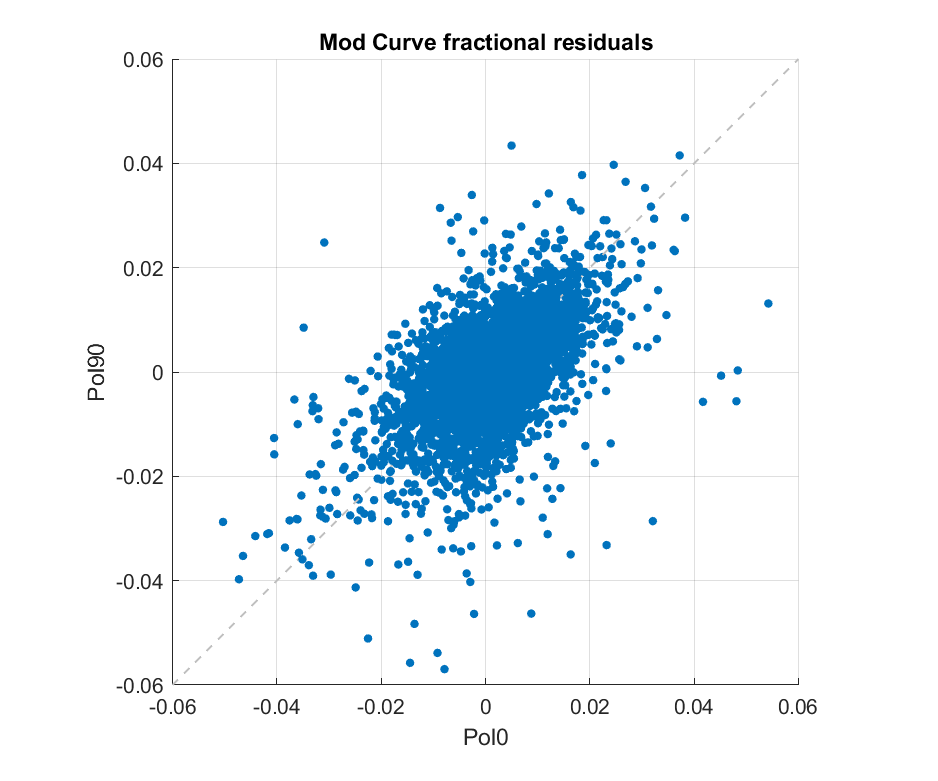
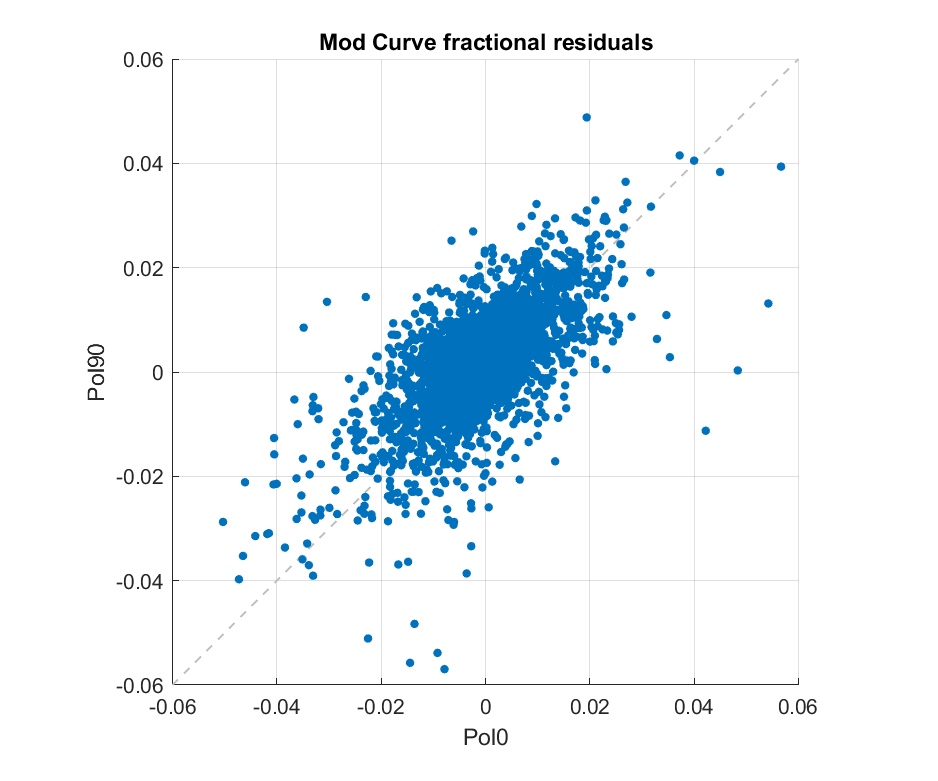
Update to unblinding strategy

diff --git a/2023mmdd_IPR_unblinding_proposal/index.html b/2023mmdd_IPR_unblinding_proposal/index.html
@@ -3,7 +3,7 @@
 <!--suppress HtmlDeprecatedAttribute -->
 <head>
     <meta charset="utf-8">
-    <title>Isotropic Polrot Analysis: B2018 Sims</title>
+    <title>IPR: Unblinding Strategy</title>
     <link rel="stylesheet" type="text/css" href="style.css">
     <!-- Load up MathJax for math notation -->
     <script type="text/x-mathjax-config">
@@ -29,7 +29,7 @@
 <link rel="stylesheet" type="text/css" href="scripts/pager.css">
 
 <header>
-    <h1>Isotropic Polarization Rotation Analysis: Systematics Assessment and Unblinding Proposal</h1>
+    <h1>Isotropic Polarization Rotation Analysis: Unblinding Proposal Strategy</h1>
 
     <time datetime="2022-12-13" class="published updated">
         2023 Feb dd

diff --git a/2022mmdd_rps_angles_xpol/scripts/posting_plots_rps_analysis_2.m b/2022mmdd_rps_angles_xpol/scripts/posting_plots_rps_analysis_2.m
@@ -48,7 +48,7 @@ fd_2018 = fd;
 fd_2018 = get_pair_params(fd_2018,ind0,ind90);
 [fd_2018, phis_2018, phi_pair_2018, xpols_2018, poleff_pair_2018,~,~,~] = get_pol_params_per_obs(fd_2018,p);
 
-%%
+%
 clc
 load('z:/dev/rps/rps_obs_info.mat')
 %load('z:/dev/rps/rps_beam_fits_type5_withbparam.mat')
@@ -362,8 +362,8 @@ P = phi_pair-repmat(nanmedian(phi_pair,1),10,1);
 fig = figure(2);
 fig.Position(3:4) = [450 420];
 clf; hold on
-errorbar(1:10,nanmean(P,2),nanstd(P,[],2),'.','CapSize',0,'LineWidth',1.25)
-plot(1:10,nanmean(P,2),'.','MarkerSize',14)
+errorbar(1:10,nanmedian(P,2),nanstd(P,[],2),'.','CapSize',0,'LineWidth',1.25)
+plot(1:10,nanmedian(P,2),'.','MarkerSize',14)
 %plot([-180 180],polyval(C,[-180 180]),'k--')
 
 grid on
@@ -375,7 +375,7 @@ ylabel({'\phi_{pair}-md(\phi) [Deg]'})
 title({'\phi_{pair} Vs. Obs','Median-subtracted per pair, avg''d per obs'})
 pbaspect([1 1 1])
 fname = 'phi_pair_vs_obs_medsub';
-saveas(fig,fullfile(figdir,fname),'png')
+%saveas(fig,fullfile(figdir,fname),'png')
 
 %% Angle VS. DK overall
 %load('z:/dev/rps/rps_phi_final_2022.mat')
@@ -1077,7 +1077,13 @@ text(0.1,0.4,{sprintf('0/90 Cov: %1.3f [Deg^2]',C(1,2))...
     sprintf('0/90 Corr: %1.3f',D(1,2))})
 
 fname = 'pol90_vs_pol0_sim.png';
-saveas(fig,fullfile(figdir,fname),'png')
+%saveas(fig,fullfile(figdir,fname),'png')
+
+%%
+clf;
+[Ppair,Peff] = calc_pair_diff_pol(Pa,Pb,zeros(size(Pa)),zeros(size(Pb)));
+hist(Ppair)
+std(Ppair)
 
 
 %% Grab the mod curves for A/B dets 
@@ -1087,7 +1093,7 @@ fig = figure(1);
 fig.Position(3:4) = [600 500];
 clf; hold on;
 
-for obsind = 8:9%1:length(dks)
+for obsind = 9%8:9%1:length(dks)
 idx = find(ismember(fd.ch,ind0) & fd.obsnum == obsind);
 
 [B, B90, R, Bmod,Bmod90] = deal([]);
@@ -1127,6 +1133,8 @@ plot(Bres(:,idx),Bres90(:,idx),'.','MarkerSize',14,'Color',cmlines(1,:));
 xlim(lims)
 ylim(lims)
 grid on
+cov((Bres(:,idx)),(Bres90(:,idx)))
+
 end
 
 pbaspect([1 1 1])
@@ -1442,111 +1450,68 @@ for chind = 1:length(fd.ch)
 end
 fd_psi = structcut(fd_psi,cutind);
 
-%%
-
-fd0 = fd;
-fd.phi_s_new = fd.phi_s;
-fd0.psi = fd0.phi-fd0.phi_s;
-fd0.phi_new = fd0.psi+fd0.phi_s_new;
-
-K = NaN(1,32);
-for dkind = 1:10
-    s = size(scheds{dkind},2);
-    K(1,scheds{dkind}) = dks(dkind)*ones(1,s);
-end
-
-[th, r] = cart2pol(fd.x,fd.y);
-th = th-fd.dk_cen*pi/180;
-[fd.xm, fd.ym] = pol2cart(th,r);
-
-for obsind = 4%1:10
-        
-    fig = figure(4);
-    clf; hold on;
-    if 0
-    for rowind = 1:19
-        idx = find(fd0.schnum==obsind & fd0.rowind == rowind);
+%% Look at medsub phi vs medsub x/y
+clc
+[x, y, phi_s] = deal(NaN(1,2640));
+for obsind = 1:10
+    for chind = 1:2640
+        idx = find(fd.obsnum==obsind & fd.ch==chind);
         if ~isempty(idx)
-            fd_rast = structcut(fd0,idx);
-            mirror = rpsopt.mirror;
-            mirror.tilt = nanmean(fd_rast.mirr_tilt)+0;
-                mirror.roll = nanmean(fd_rast.mirr_roll)+0;
-            source = rpsopt.source;
-            source.azimuth = nanmean(fd_rast.src_az)+0;
-            source.elevation = nanmean(fd_rast.src_el);
-            source.height = source.distance*tand(source.elevation);
+            fd0 = structcut(fd,idx(1));
+            if 0
+                mirror = struct;
+                mirror.height = 1.4592;
+                mirror.tilt = fd0.mirr_tilt(1);
+                mirror.roll = fd0.mirr_roll(1);
 
-            [~, ~, phi_s] = beam_map_pointing_model(fd_rast.az_cen,fd_rast.el_cen,fd_rast.dk_cen,model,'bicep3',mirror,source,[]);
-            fd0.phi_s(idx) = reshape(phi_s,1,[]);
+                source = struct;
+                source.distance = 195.5;
+                source.azimuth = fd0.src_az(1);
+                source.elevation = fd0.src_el(1);
+                source.height = source.distance*tand(source.elevation);
+
+                [x0,y0,phi_s0] = beam_map_pointing_model(fd0.az_cen,fd0.el_cen,fd0.dk_cen, ...
+                    model,'bicep3',mirror,source,[]);
+            else
+                x0 = fd0.x;
+                y0 = fd0.y;
+                phi_s0 = fd0.phi_s;
+            end
+
+            x(obsind,chind) = nanmean(x0);
+            y(obsind,chind) = nanmean(y0);
+            phi_s(obsind,chind) = nanmean(wrapTo180(phi_s0));
+
+
+
         end
     end
-    end
-    subplot(1,2,1)
-    hold on
-    idx = find(fd0.obsnum==obsind & ismember(fd0.ch,ind0));
-    plot(fd0.phi(idx))
-    plot(fd0.phi_new(idx))
-   
-   %plot(-fd0.phi_s(idx)-(fd0.psi(idx)))
-    %plot(-fd0.phi_s(idx)-nanmean(-fd0.phi_s(idx)))
-    %plot(fd0.phi(idx)-fd0.phi_s(idx)-nanmean(fd0.phi(idx)-fd0.phi_s(idx)))
-%     plot((fd0.phi(idx)-fd0.phi_s(idx))./(-fd0.phi_s(idx)))
-    grid on
-    %ylim([-5 2]+K(obsind)-90)
-
 end
-%%
-for obsind = 4
-    subplot(1,2,2)
-    hold on
-    idx = find(fd0.schnum==obsind & ismember(fd0.ch,ind90));
-    
-    plot(-fd0.phi_s(idx))
-    plot(fd0.psi(idx)-90)
-    %plot(-fd0.phi_s(idx)-(fd0.psi(idx)-90))
-%     plot(-fd0.phi_s(idx)-nanmean(-fd0.phi_s(idx)))
-%     plot(fd0.phi(idx)-fd0.phi_s(idx)-nanmean(fd0.phi(idx)-fd0.phi_s(idx)))
-%    plot((fd0.phi(idx)-fd0.phi_s(idx)-90)./(-fd0.phi_s(idx)))
-    grid on
-    ylim([-5 2]+K(obsind)-90)
-
-end
-
-
-
-
-
-
 
 %%
-for obsind = 1:10
-    fig = figure(5);
-clf; hold on;
+x(x==0) = NaN; mx = nanmedian(x,1); mx(mx==0) = NaN;
+y(y==0) = NaN; my = nanmedian(y,1); my(my==0) = NaN;
+xmedsub = x-repmat(mx,10,1); xmedsub(xmedsub==0) = NaN;
+ymedsub = y-repmat(my,10,1); ymedsub(ymedsub==0) = NaN;
+phipairmedsub = phi_pair-repmat(nanmedian(phi_pair,1),10,1);
+phipairmedsub(phipairmedsub==0) = NaN;
+phimedsub = phis-repmat(nanmedian(phis,1),10,1);
+phimedsub(phimedsub==0) = NaN;
+phi_smedsub = phi_s + repmat(dks',1,2640);
+phi_smedsub = phi_smedsub - repmat(nanmedian(phi_smedsub,1),10,1);
+phi_smedsub(phi_smedsub==0) = NaN;
+
+%%
+fig = figure(1345);
+clf;
+
+plot(sqrt(xmedsub.^2+ymedsub.^2),'.')
+%xlim([-1 1]*2)
+grid on
+%plot(xmedsub,phimedsub,'.')
+%plot(x','.')
 
 
-        
-    subplot(1,2,1)
-    hold on
-    idx = find(fd_notilt.obsnum==obsind & ismember(fd_notilt.ch,ind0));
-   plot(-fd_notilt.phi_s(idx))
-   plot(fd_notilt.phi(idx)-fd_notilt.phi_s(idx))
-    %plot(-fd_notilt.phi_s(idx)-nanmean(-fd_notilt.phi_s(idx)))
-    %plot(fd_notilt.phi(idx)-fd_notilt.phi_s(idx)-nanmean(fd_notilt.phi(idx)-fd_notilt.phi_s(idx)))
-     %plot((fd_notilt.phi(idx)-fd_notilt.phi_s(idx))./(-fd_notilt.phi_s(idx)))
-    grid on
-    
-    subplot(1,2,2)
-    hold on
-    idx = find(fd_notilt.obsnum==obsind & ismember(fd_notilt.ch,ind90));
-    
-    plot(-fd_notilt.phi_s(idx))
-    plot(fd_notilt.phi(idx)-fd_notilt.phi_s(idx)-90)
-%     plot(-fd_notilt.phi_s(idx)-nanmean(-fd_notilt.phi_s(idx)))
-%     plot(fd_notilt.phi(idx)-fd_notilt.phi_s(idx)-nanmean(fd_notilt.phi(idx)-fd_notilt.phi_s(idx)))
-%    plot((fd_notilt.phi(idx)-fd_notilt.phi_s(idx)-90)./(-fd_notilt.phi_s(idx)))
-    grid on
-   
-end
 
 
 
